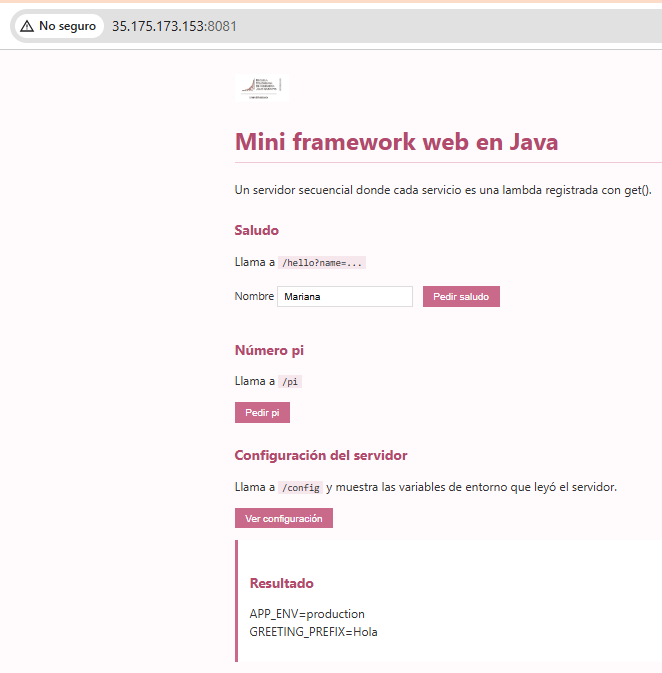
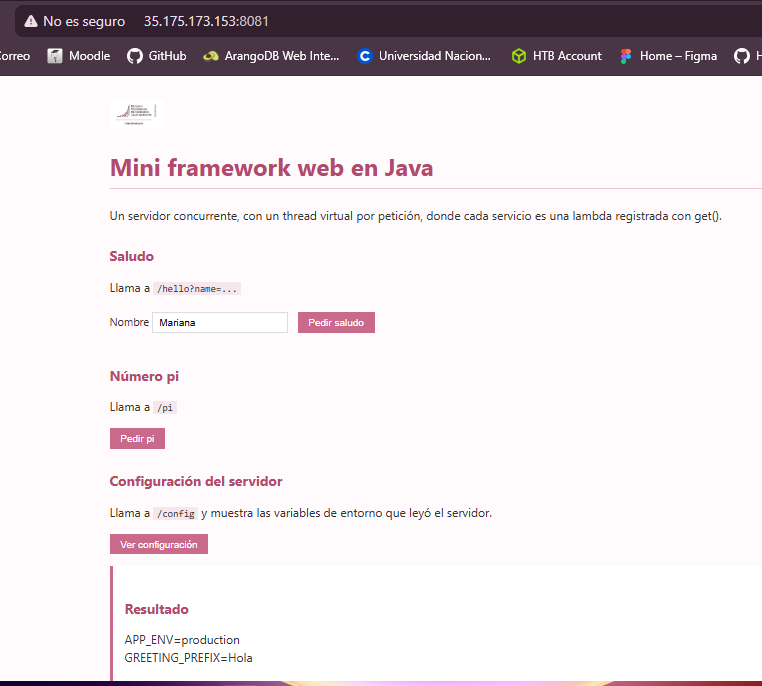
Redeploy version 1.1 on EC2 and update cloud evidence

diff --git a/README.md b/README.md
@@ -1,4 +1,5 @@
 # TDSE Framework Extension: concurrencia, apagado gradual y despliegue
+## Mariana Malagón 
 
 Extensión de mi propio framework web en Java (sin Spring), tomado del repositorio [TDSE_JavaFramework](https://github.com/marianamalagon11/TDSE_JavaFramework). El objetivo de este repositorio es que el framework soporte manejo concurrente de peticiones, apagado gradual, puerto configurable por variable de entorno, ejecución en Docker y despliegue en EC2.
 
@@ -140,7 +141,7 @@ El primer `8080` de `-p` es el puerto de la máquina y el segundo el del contene
 ## Despliegue en AWS EC2
 
 - **Servicio:** EC2, región `us-east-1`, instancia `virtualization-lab-ec2` (`t3.micro`, Amazon Linux). Es la misma instancia del repositorio 1, que ya tiene Docker instalado y otro contenedor en el puerto 8080.
-- **Imagen:** [`marianamalagon11/webframework-ext:1.0`](https://hub.docker.com/r/marianamalagon11/webframework-ext) en Docker Hub.
+- **Imagen:** [`marianamalagon11/webframework-ext:1.1`](https://hub.docker.com/r/marianamalagon11/webframework-ext) en Docker Hub.
 - **URL pública:** http://35.175.173.153:8081
 
 La IP pública la asigna AWS automáticamente. Si la instancia se detiene y se vuelve a iniciar, cambia.
@@ -157,8 +158,8 @@ Decisiones:
 
    ```bash
    docker login
-   docker tag webframework-ext marianamalagon11/webframework-ext:1.0
-   docker push marianamalagon11/webframework-ext:1.0
+   docker tag webframework-ext marianamalagon11/webframework-ext:1.1
+   docker push marianamalagon11/webframework-ext:1.1
    ```
 
 2. **Abrir el puerto 8081** en el security group de la instancia: regla de entrada TCP personalizado, puerto 8081, origen `0.0.0.0/0`.
@@ -172,12 +173,12 @@ Decisiones:
 4. **Descargar y ejecutar la imagen** en la instancia:
 
    ```bash
-   docker pull marianamalagon11/webframework-ext:1.0
+   docker pull marianamalagon11/webframework-ext:1.1
 
    docker run -d --name webframework --restart unless-stopped \
      -p 8081:8080 \
      -e PORT=8080 -e APP_ENV=production -e GREETING_PREFIX=Hola \
-     marianamalagon11/webframework-ext:1.0
+     marianamalagon11/webframework-ext:1.1
    ```
 
 5. **Verificar** con `docker ps`, `docker logs webframework` y `curl localhost:8081/pi`, y luego desde el navegador con `http://<IP_PUBLICA>:8081`.
@@ -309,7 +310,7 @@ El repositorio público `marianamalagon11/webframework-ext` en Docker Hub con la
 
 ![Repositorio en Docker Hub](images/04-dockerhub-repo.png)
 
-**Imagen descargada en la instancia** con `docker pull`. El digest `sha256:4462920b...` es el mismo que se subió desde la máquina local:
+**Imagen descargada en la instancia** con `docker pull` (primer despliegue, versión `1.0`). El digest `sha256:4462920b...` es el mismo que se subió desde la máquina local:
 
 ![docker pull en EC2](images/04-docker-pull-ec2.png)
 
@@ -321,7 +322,11 @@ El repositorio público `marianamalagon11/webframework-ext` en Docker Hub con la
 
 ![docker ps, logs y curl en EC2](images/04-docker-ps-logs-ec2.png)
 
-**Aplicación en el navegador** desde `http://35.175.173.153:8081`. El botón Pedir saludo llama a `/hello` con `GREETING_PREFIX=Hola`:
+**Actualización a la versión `1.1`.** Después del primer despliegue se corrigió el texto de la página de ejemplo, que todavía decía "servidor secuencial". Se reconstruyó la imagen, se subió como `1.1` y en la instancia se descargó, se borró solo el contenedor `webframework` (el del repositorio 1 no se tocó) y se creó de nuevo con la misma configuración. `docker ps` muestra ambos contenedores corriendo:
+
+![Actualización a 1.1 en EC2](images/04-ec2-actualizacion-1-1.png)
+
+**Aplicación en el navegador** desde `http://35.175.173.153:8081`, ya con la versión `1.1`. El botón Pedir saludo llama a `/hello` con `GREETING_PREFIX=Hola`:
 
 ![Saludo en la nube](images/04-browser-hello.png)
 
